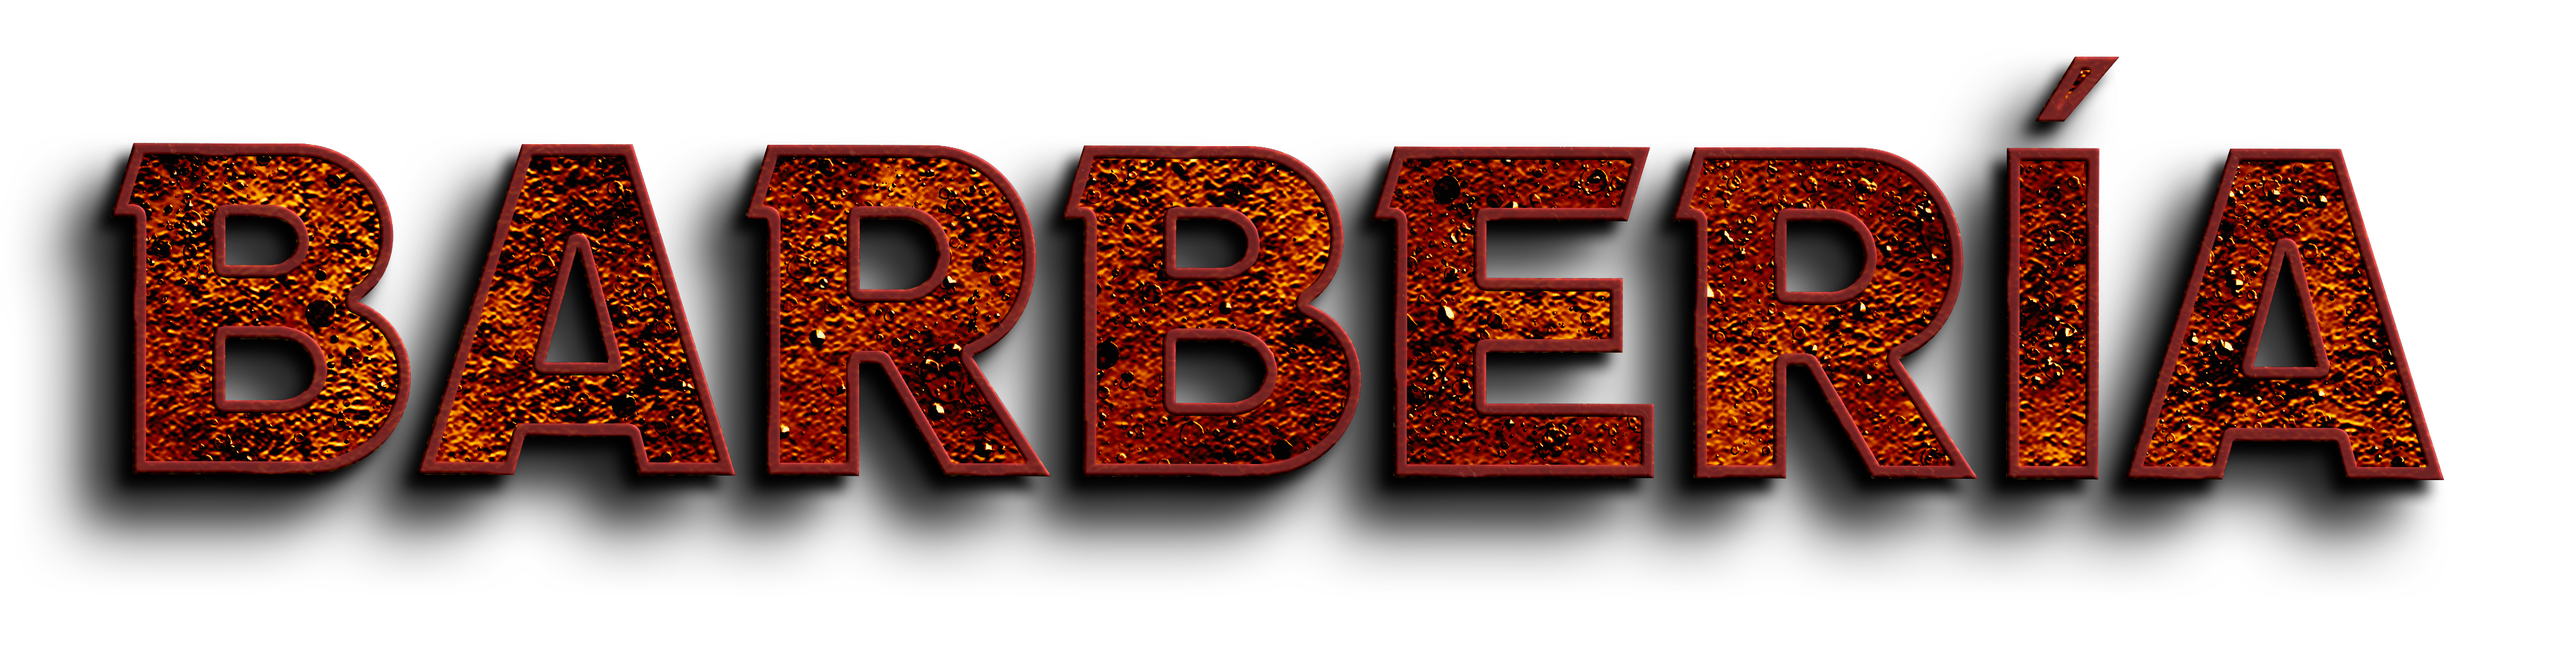
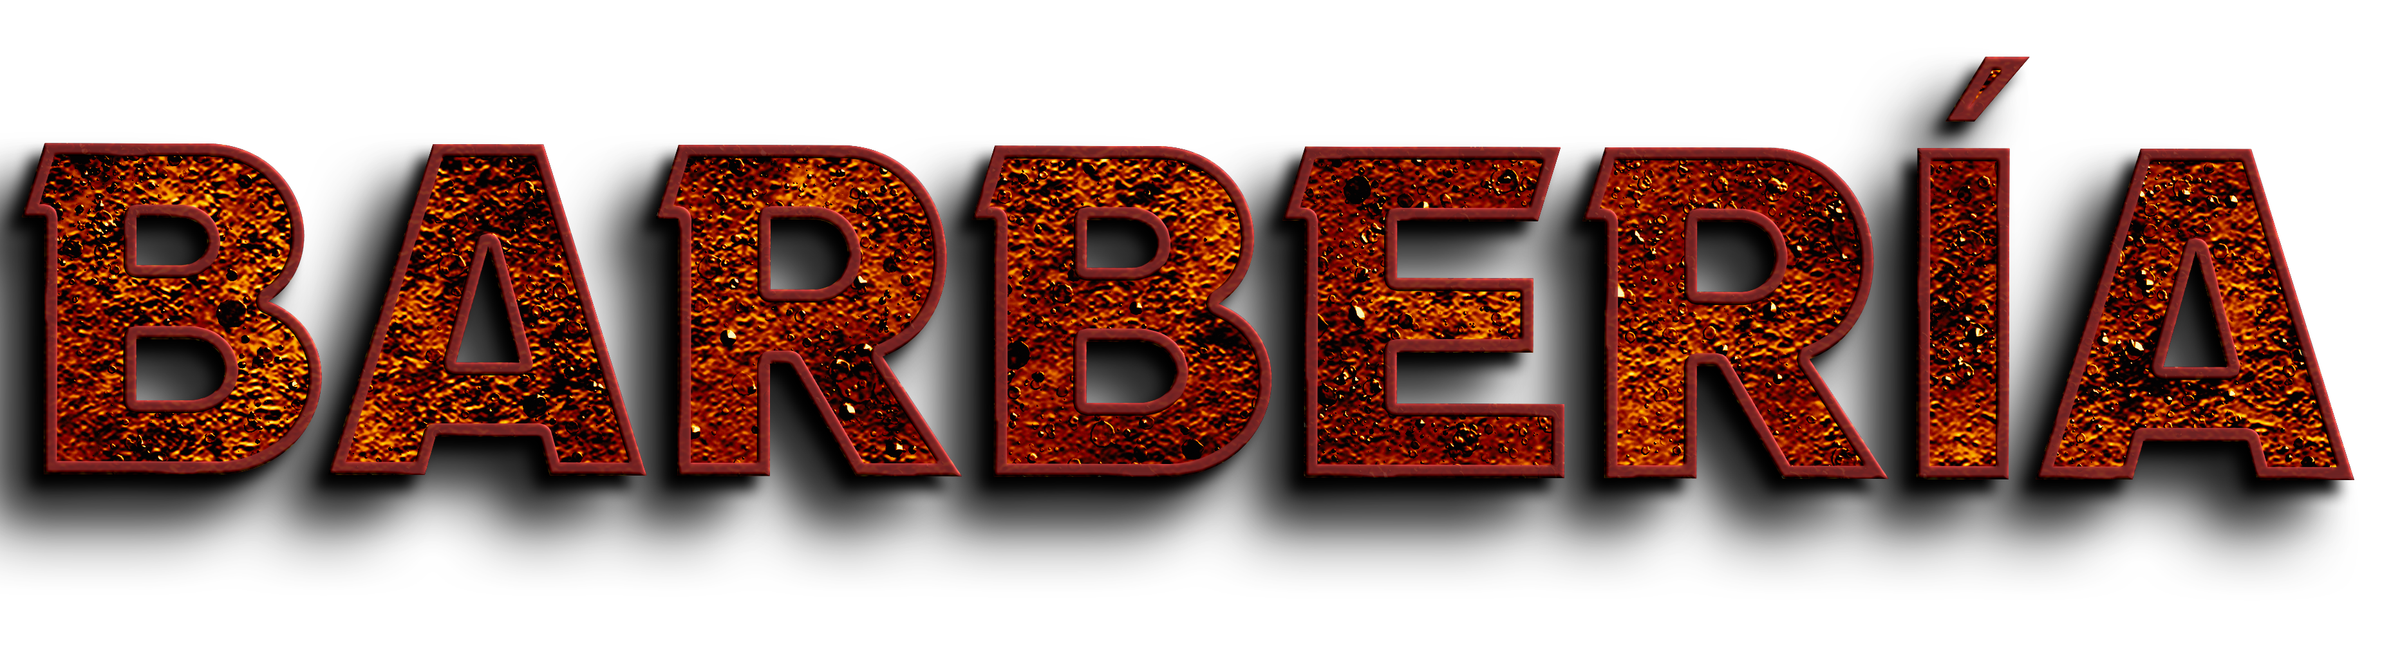
3
3

diff --git a/index.html b/index.html
@@ -124,8 +124,8 @@ a {
 /* LOGO RESPONSIVE */
 .bimg{border-radius: 50%; border: 2rem double rgb(255, 0, 89);    margin: 117px 0 0 0px;
  }
-.ubiimg1{position: absolute;transform: translate(-362px,162px);scale: 1.1;}
-.ubiimg2{position: absolute;transform: translate(-309px,97px);max-width: 728px;scale: 1.3;}
+.ubiimg1{position: absolute;transform: translate(-399px,162px);scale: 1;}
+.ubiimg2{position: absolute;transform: translate(-267px,97px);max-width: 283px;scale: 1.3;}
 .ubiimg3{position: absolute;transform: translate(-410px,10px);max-width: 230px;rotate: z -3deg;}
 .ubiimg4{position: absolute;transform: translate(-198px,54px);max-width: 225px;rotate: z 5deg;}
 .ubiimg5{position: absolute;transform: translate(-321px,-181px);max-width: 371px;scale: 1.2;}
